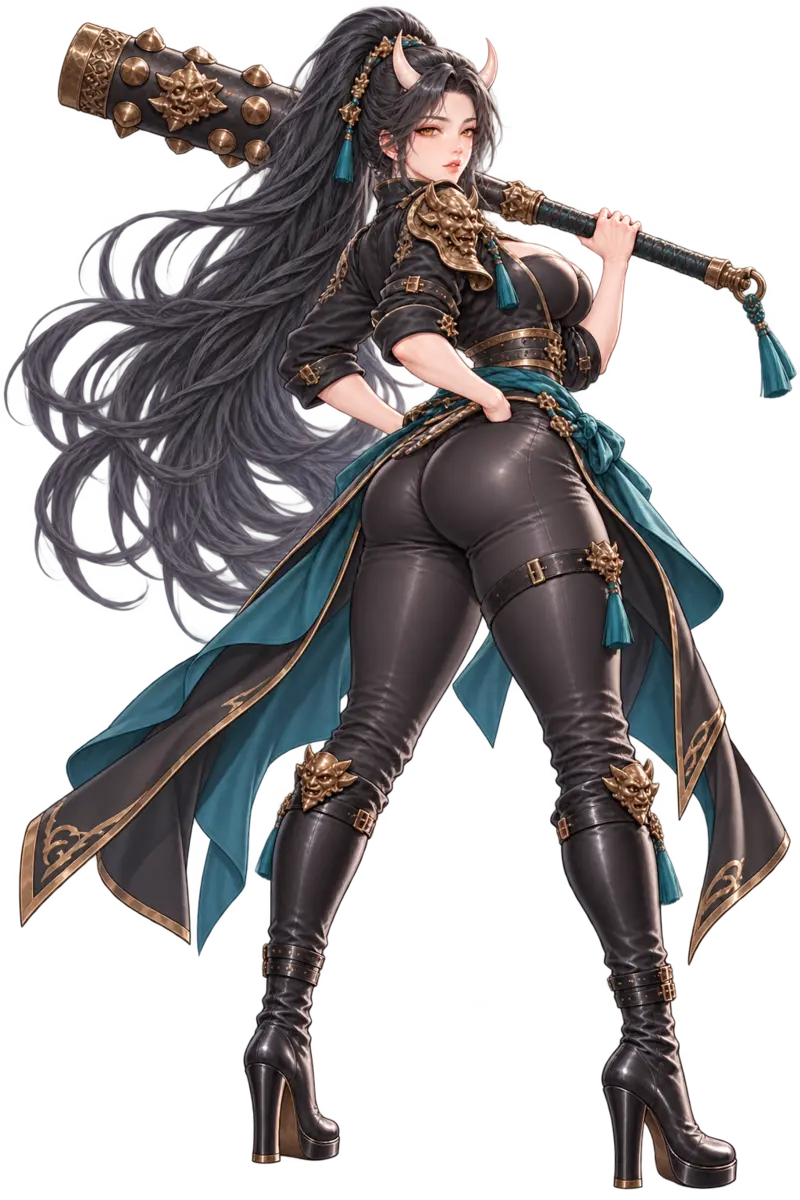
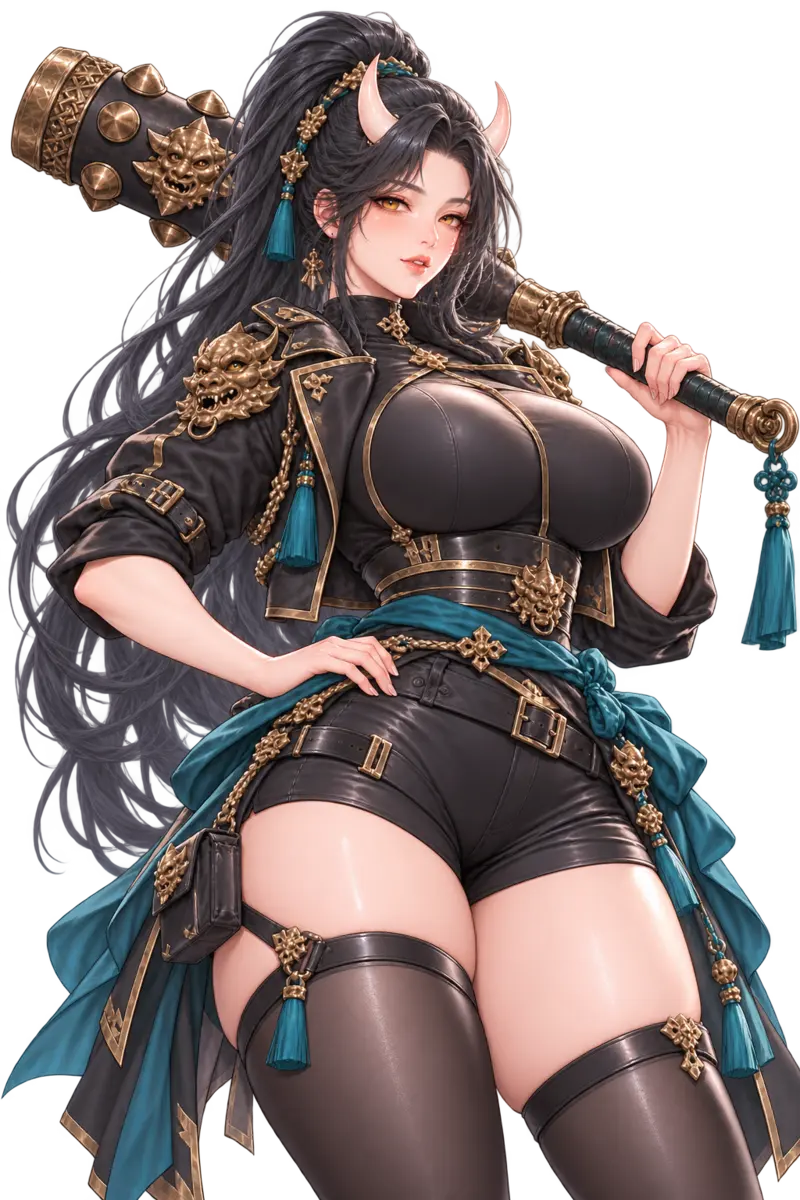
sample: 니케 카드를 참고해 무릎 위 구도·글래머 체형으로 다시 그림
- 백설·무영·소담: 무릎 위 구도, 큰 가슴·넓은 골반·굵은 허벅지, 볼 붉은 표정, 윤기 있는 채색
- 첫 화면: 캐릭터를 메뉴 아래부터 화면 끝까지 크게, 잘린 아래쪽은 흐리게, 할 일 칸은 그 위에
- 그림 프롬프트와 디자인 기준 문서를 같은 기준으로 고침(눈높이 시점, 치마 속 올려다보는 각도 금지)

Claude-Session: https://claude.ai/code/session_01AG3ixGBdGKPAAzXvjh6L4F

diff --git a/src/data/art.ts b/src/data/art.ts
@@ -10,13 +10,13 @@ const STYLE =
 
 // 디자인 기준은 docs/CHARACTER_GUIDE.md. 체형은 공통, 옷과 자세는 식객마다 다르게(subject에 적는다).
 const HEROINE =
-  'The character is clearly an adult woman in her late twenties, very beautiful and glamorous, with a mature pretty face, large expressive eyes and glossy lips, ' +
-  'a voluptuous hourglass figure: large bust, narrow waist, wide curvy hips and full, shapely, healthy thighs (not skinny legs), in the style of high-end Korean gacha game character art. ' +
-  'Her fitted outfit shows the curves of her figure; her outfit and pose follow the subject description and express her personality. ' +
-  'Alluring but tasteful and non-explicit: clothing covers the hips and chest, no nudity, no underwear visible.';
+  'Polished Korean gacha-game character art: soft airbrushed shading, glossy luminous skin with a warm blush, detailed glossy eyes. ' +
+  'The character is clearly an adult woman in her late twenties, very beautiful and glamorous, with a voluptuous figure: large bust, narrow waist, wide hips and full thighs. ' +
+  'Her fitted outfit shows her curves; her outfit, pose and expression follow the subject description and express her personality. ' +
+  'Alluring but tasteful and non-explicit: no nudity, no underwear visible, no low camera angle looking up the skirt.';
 
 const FRAME = {
-  full: `${HEROINE} Full body, her signature pose. Isolated on a fully transparent background (PNG with alpha), no scenery, no floor, no shadow.`,
+  full: `${HEROINE} Knee-up shot (head to just above the knees) at eye level, filling the frame, her signature pose. Isolated on a fully transparent background (PNG with alpha), no scenery, no floor, no shadow.`,
   card: `${HEROINE} Three-quarter body shot, dynamic pose, with a scenic background that suits her story.`,
   cg: `${HEROINE} Wide romantic story illustration (event CG) of her alone, seen from the point of view of the viewer who is with her (the viewer is not drawn). Warm emotional lighting and a detailed background.`,
   bg: 'Background art with no people. Tall vertical composition for a phone screen, the lower third fairly open.',

diff --git a/src/styles.css b/src/styles.css
@@ -609,3 +609,9 @@ body:has(.guide) .sheet { max-height: calc(100dvh - 150px); }
 .say b { grid-column: 1 / -1; color: var(--seal); font: 700 14px var(--title); }
 .say button { color: var(--seal); font-weight: 700; font-size: 14px; white-space: nowrap; }
 .home .say { position: static; flex: none; margin: 6px 12px 10px; }
+
+/* 무릎 위 구도: 캐릭터는 메뉴 아래부터 화면 끝까지 크게, 잘린 아래쪽은 흐리게. 할 일 칸은 그 위에 얹는다. */
+.home .home-menu { position: relative; z-index: 2; }
+.home .heroine { position: absolute; left: 0; right: 0; top: 70px; bottom: 0; padding: 0; z-index: 1; }
+.home .heroine-art img { -webkit-mask-image: linear-gradient(to bottom, #000 86%, transparent 100%); mask-image: linear-gradient(to bottom, #000 86%, transparent 100%); }
+.home .quest, .home .say { position: absolute; left: 0; right: 0; bottom: 0; margin: 0 12px 10px; z-index: 2; }

diff --git a/src/ui/HomeView.tsx b/src/ui/HomeView.tsx
@@ -56,7 +56,6 @@ export function HomeView({ view, now, open, go, onHeroine }: Props) {
   </div>
   <div className="heroine">
    <button className="heroine-art" aria-label={`${def.name}에게 말 걸기`} onClick={poke}>
-    <img className="heroine-shadow" src={ART.full(def.id)} alt="" aria-hidden="true"/>
     <Art className="heroine-img" src={ART.full(def.id)} alt={def.name} fallback={<div className="portrait-fallback">{def.name}</div>}/>
    </button>
   </div>

diff --git a/docs/CHARACTER_GUIDE.md b/docs/CHARACTER_GUIDE.md
@@ -21,14 +21,15 @@
 2. **자세가 성격을 말한다.** 식객마다 대표 자세를 하나씩 정하고 겹치지 않게 한다.
 3. **검은 실루엣 시험.** 까맣게 칠해도 누구인지 알아볼 수 있어야 한다. 머리 모양, 옷 윤곽, 소품 셋 중 둘은 남과 달라야 한다.
 4. **대표 색 2~3개.** 다른 식객과 주된 색이 겹치지 않게 한다.
-5. **체형.** 모두 성인 여성이고 작은 얼굴, 큰 가슴, 가는 허리, 긴 다리의 글래머 체형이다. 키와 골격(늘씬함, 탄탄함, 부드러움)은 성격에 맞게 다르게 한다.
-6. **꾸밈은 적게.** 금장식, 겹겹 장신구, 꽃잎, 반짝이 효과는 넣지 않는다. 눈길은 얼굴, 몸선, 소품에 모은다.
-7. **노출 수위.** 매력적이되 노골적이지 않게 한다. 맨살이 드러나도 속옷이나 맨몸은 보이지 않는다.
+5. **체형.** 모두 성인 여성이고 큰 가슴, 가는 허리, 넓은 골반, 굵은 허벅지의 글래머 체형이다(니케 기준). 다리가 너무 가늘면 안 된다.
+6. **구도와 채색(니케 카드 참고).** 대표 그림은 무릎 위까지 가깝게 잡아 화면을 채운다. 시점은 눈높이로 하고, 아래에서 치마 속을 올려다보는 각도는 쓰지 않는다. 명암은 부드럽게 번지게, 피부는 윤기 있게, 볼은 붉게 한다. 표정은 장난스럽거나 유혹적으로 성격을 드러낸다.
+7. **꾸밈은 적게.** 금장식, 겹겹 장신구, 꽃잎, 반짝이 효과는 넣지 않는다. 눈길은 얼굴, 몸선, 소품에 모은다.
+8. **노출 수위.** 매력적이되 노골적이지 않게 한다. 맨살이 드러나도 속옷이나 맨몸은 보이지 않는다.
 
 ## 1부 식객 디자인표
 
 | 식객 | 출신·역할 | 옷 | 대표 자세 | 색 |
 | --- | --- | --- | --- | --- |
-| 백설 | 구미호, 매력 | 어깨 드러낸 긴 한복, 진홍 허리끈 | 등을 반쯤 돌려 어깨 너머로 돌아보며 부채로 입가를 가림 | 흰색 · 진홍 |
-| 무영 | 도깨비, 무관 | 무관 겉옷을 줄인 짧은 재킷, 어깨 보호대, 바지와 긴 장화 | 정면으로 다리를 벌리고 서서 세운 방망이 위에 두 손을 얹음 | 검정 · 청록 · 청동 |
-| 소담 | 우렁각시, 살림꾼 | 짧은 저고리와 종 모양으로 퍼지는 긴 치마 | 걸어오다 장부를 펴 들고 붓끝을 입술에 댐 | 연보라 · 상아 · 진주 |
+| 백설 | 구미호, 매력 | 어깨 드러낸 상아색 저고리, 허벅지 중간까지 오는 진홍 치마, 흰 스타킹 | 부채로 입술을 가리고 한 손은 허리에, 고개를 기울이고 놀리듯 웃음 | 흰색 · 진홍 |
+| 무영 | 도깨비, 무관 | 소매 걷은 짧은 검정 무관 재킷, 몸에 붙는 상의, 짧은 바지와 검정 스타킹, 허벅지 끈 | 거대한 쇠방망이를 어깨에 메고 한 손은 허리에, 정면을 보며 여유로운 미소 | 검정 · 청록 · 청동 |
+| 소담 | 우렁각시, 살림꾼 | 비치는 연보라 저고리, 몸에 붙는 흰 블라우스, 허벅지 중간까지 오는 상아색 치마 | 장부를 가슴에 안고 붓끝을 입술에 대며 수줍게 웃음 | 연보라 · 상아 · 진주 |
